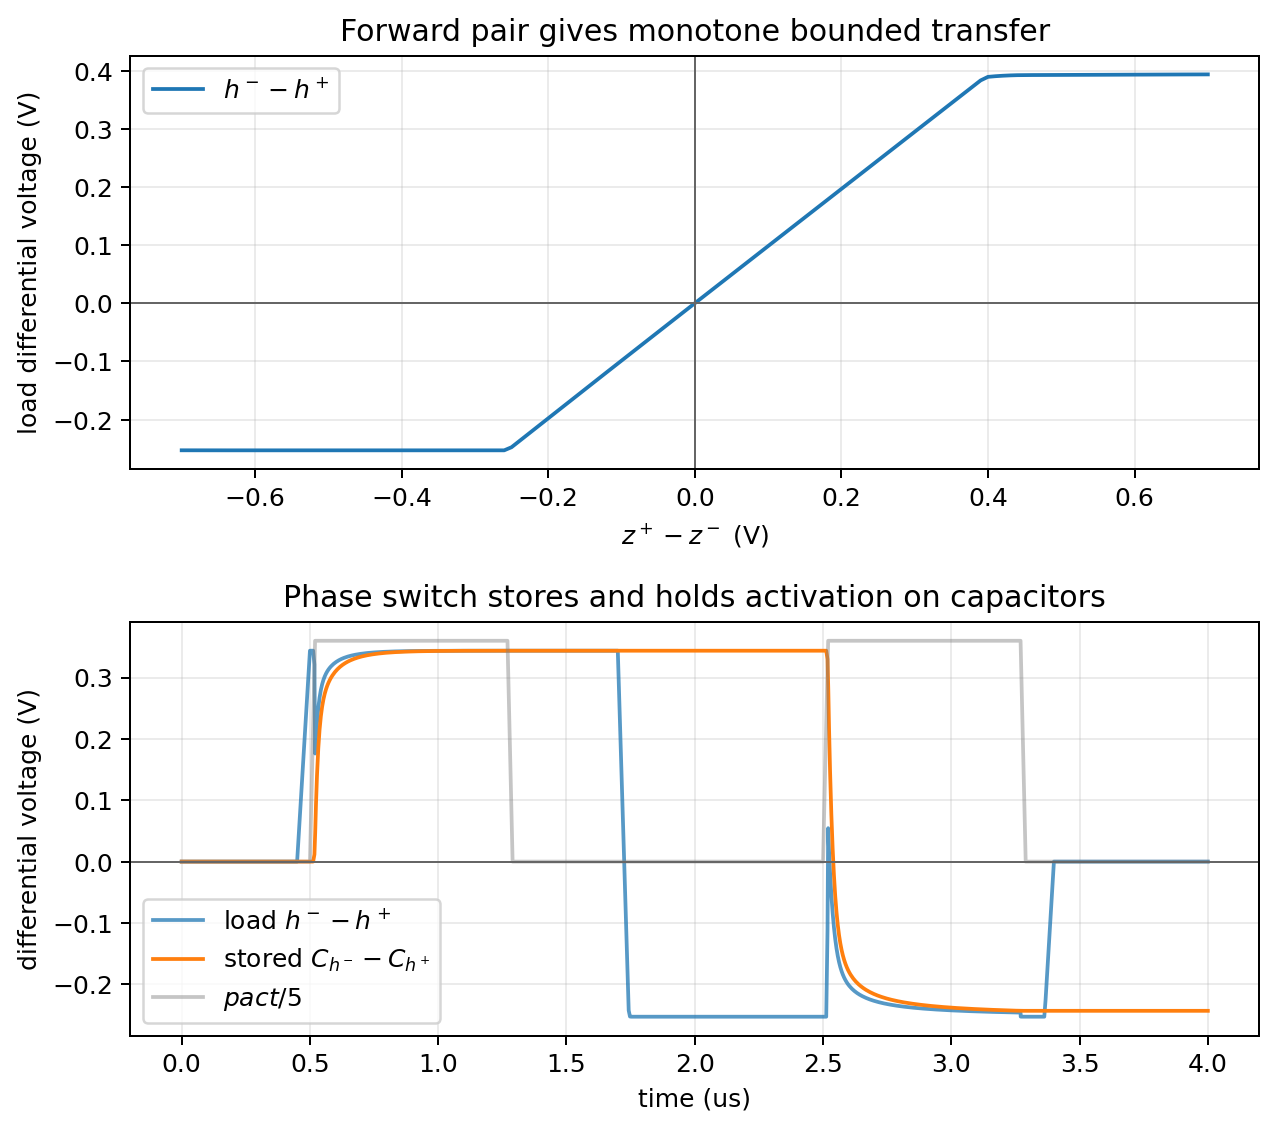
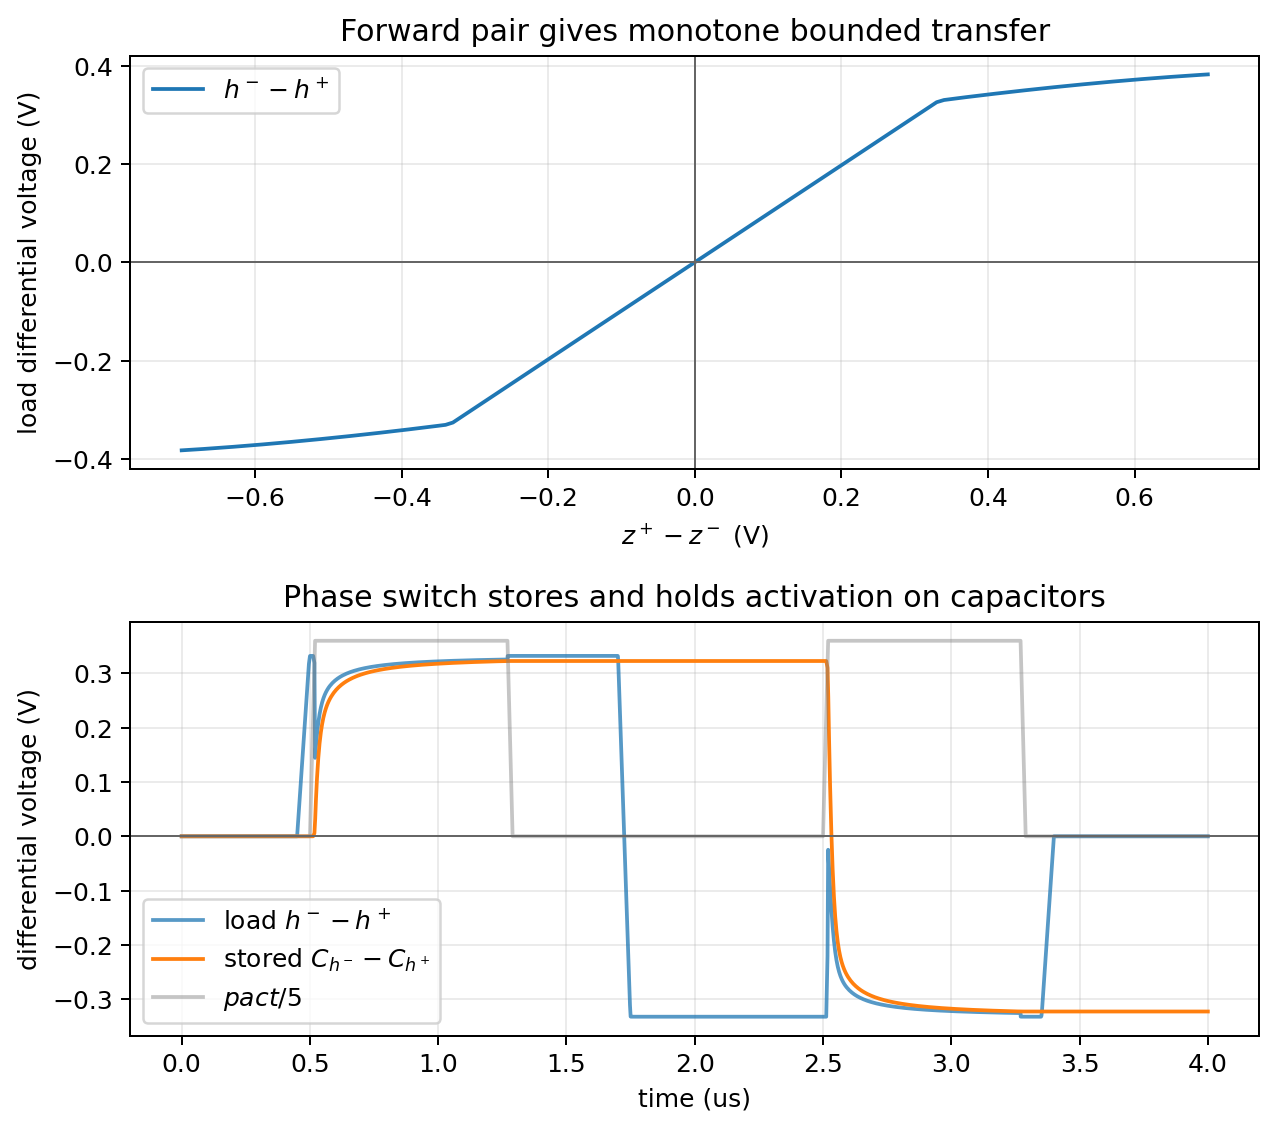
Use differential drive in MOS forward checks

diff --git a/spice/run_mos_cell_characterization.py b/spice/run_mos_cell_characterization.py
@@ -2,7 +2,7 @@
 """Run ngspice sanity checks for the MOS local-feature cell sketches.
 
 The decks generated here are intentionally small transistor-level
-characterizations of the four paper panels.  They use simple Level-1 MOS models
+characterizations of the paper panels.  They use simple Level-1 MOS models
 and independent testbench rails so the resulting plots show local sign and
 transfer behavior, not a calibrated process result.
 """
@@ -193,8 +193,10 @@ def characterize_forward_pair() -> Path:
 * MOS forward differential-pair sanity check
 {COMMON_MODELS}
 VDD vdd 0 1.8
-VZP zp 0 0.2
-VZM zm 0 0.9
+VCM cm 0 0.9
+VDIFF zp zm -0.7
+RZP zp cm 1G
+RZM zm cm 1G
 VTAIL vbias 0 0.95
 MP1 hp hp vdd vdd PMOS L={{LCH}} W={{WP}}
 MP2 hm hm vdd vdd PMOS L={{LCH}} W={{WP}}
@@ -203,7 +205,7 @@ MN2 hm zm tail 0 NMOS L={{LCH}} W={{WN}}
 MNT tail vbias 0 0 NMOS L={{LCH}} W={{WN}}
 .control
 set noaskquit
-dc VZP 0.2 1.6 0.01
+dc VDIFF -0.7 0.7 0.01
 wrdata mos_forward_pair.dat v(hp) v(hm)
 quit
 .endc
@@ -214,8 +216,10 @@ quit
 {COMMON_MODELS}
 .param CSTORE=10p WSW=24u
 VDD vdd 0 1.8
-VZP zp 0 PWL(0 0.9 0.45u 0.9 0.5u 1.25 1.7u 1.25 1.75u 0.55 3.35u 0.55 3.4u 0.9 4u 0.9)
-VZM zm 0 0.9
+VCM cm 0 0.9
+VDIFF zp zm PWL(0 0 0.45u 0 0.5u 0.35 1.7u 0.35 1.75u -0.35 3.35u -0.35 3.4u 0 4u 0)
+RZP zp cm 1G
+RZM zm cm 1G
 VTAIL vbias 0 0.95
 VPACT pact 0 PULSE(0 1.8 0.5u 20n 20n 0.75u 2.0u)
 MP1 hp hp vdd vdd PMOS L={{LCH}} W={{WP}}
@@ -239,10 +243,12 @@ quit
 """
     data = run_ngspice(transfer_deck, "mos_forward_pair")
     x, cols = load_wrdata(data, 2)
-    xdiff = x - 0.9
+    xdiff = x
     signed = cols[1] - cols[0]
     require(np.all(np.diff(signed) >= -1e-4), "forward pair transfer should be monotone")
     require(abs(signed[np.argmin(np.abs(xdiff))]) < 1e-3, "forward pair should be centered near zero")
+    peak = max(float(np.max(np.abs(signed))), 1e-30)
+    require(np.max(np.abs(signed + signed[::-1])) < 0.03 * peak, "forward pair should be approximately odd-symmetric")
     store_data = run_ngspice(store_deck, "mos_forward_store")
     t, store_cols = load_wrdata(store_data, 5)
     load_signed = store_cols[1] - store_cols[0]
@@ -285,37 +291,41 @@ def characterize_hidden_error() -> Path:
     eps = 0.01
     deck = f"""
 * Hidden-error finite-difference replica-pair sanity check.
-* The small-signal nudge is applied to the swept preactivation rail so this
-* measures the local slope of the same MOS forward transfer plotted above.
+* The small-signal nudge is applied as a differential perturbation around a
+* fixed common mode, matching the MOS forward transfer plotted above.
 {COMMON_MODELS}
 .param EPS={eps}
 VDD vdd 0 1.8
-VZP zp 0 0.2
-VZM zm 0 0.9
+VCM cm 0 0.9
+VDIFF zp zm -0.7
+RZP zp cm 1G
+RZM zm cm 1G
 VTAIL vbias 0 0.95
 
-* Testbench nudges: p-copy uses z+ + eps.
-VZP_P zpp zp {{EPS}}
-* m-copy uses z+ - eps.
-VZP_M zp zpm {{EPS}}
+* Testbench nudges around fixed common mode: p-copy uses differential input
+* d+eps, m-copy uses d-eps.
+VZPP zpp zp {{EPS/2}}
+VZMM zm zmm {{EPS/2}}
+VZPM zp zpm {{EPS/2}}
+VZMP zmp zm {{EPS/2}}
 
 * Positive nudge replica.
 MPPP hpp hpp vdd vdd PMOS L={{LCH}} W={{WP}}
 MPPM hpm hpm vdd vdd PMOS L={{LCH}} W={{WP}}
 MNPP hpp zpp tailp 0 NMOS L={{LCH}} W={{WN}}
-MNPM hpm zm tailp 0 NMOS L={{LCH}} W={{WN}}
+MNPM hpm zmm tailp 0 NMOS L={{LCH}} W={{WN}}
 MNTP tailp vbias 0 0 NMOS L={{LCH}} W={{WN}}
 
 * Negative nudge replica.
 MPMP hmp hmp vdd vdd PMOS L={{LCH}} W={{WP}}
 MPMM hmm hmm vdd vdd PMOS L={{LCH}} W={{WP}}
 MNMP hmp zpm tailm 0 NMOS L={{LCH}} W={{WN}}
-MNMM hmm zm tailm 0 NMOS L={{LCH}} W={{WN}}
+MNMM hmm zmp tailm 0 NMOS L={{LCH}} W={{WN}}
 MNTM tailm vbias 0 0 NMOS L={{LCH}} W={{WN}}
 
 .control
 set noaskquit
-dc VZP 0.2 1.6 0.01
+dc VDIFF -0.7 0.7 0.01
 wrdata mos_hidden_error.dat v(hpp) v(hpm) v(hmp) v(hmm)
 quit
 .endc
@@ -329,8 +339,10 @@ quit
 {COMMON_MODELS}
 .param CERR=10p WSW=24u
 VDD vdd 0 1.8
-VZP zp 0 1.08
-VZM zm 0 0.9
+VCM cm 0 0.9
+VDIFF zp zm 0.18
+RZP zp cm 1G
+RZM zm cm 1G
 VTAIL vbias 0 0.95
 VPBWD pbwd 0 PULSE(0 1.8 0.5u 20n 20n 0.8u 4.0u)
 VRP rp 0 PULSE(0 1.8 0.5u 20n 20n 0.8u 4.0u)
@@ -376,7 +388,7 @@ quit
 """
     data = run_ngspice(deck, "mos_hidden_error")
     x, cols = load_wrdata(data, 4)
-    xdiff = x - 0.9
+    xdiff = x
     signed_plus_nudge = cols[1] - cols[0]
     signed_minus_nudge = cols[3] - cols[2]
     gain = (signed_plus_nudge - signed_minus_nudge) / (2.0 * eps)
@@ -400,7 +412,7 @@ quit
     require(at(2.2e-6, neg_stored) < -0.12, "r- hidden-error storage should hold after phase")
 
     fig, axes = plt.subplots(2, 1, figsize=(7.2, 6.2))
-    axes[0].plot(x - 0.9, gain, label="finite-difference gain")
+    axes[0].plot(xdiff, gain, label="finite-difference gain")
     axes[0].axhline(0, color="0.4", linewidth=0.8)
     axes[0].axvline(0, color="0.4", linewidth=0.8)
     axes[0].set_xlabel("$z^+ - z^-$ (V)")

diff --git a/docs/spicenn_progress_note.tex b/docs/spicenn_progress_note.tex
@@ -609,11 +609,12 @@ must satisfy before it can replace the current behavioral prototype.
   \centering
   \includegraphics[width=0.88\linewidth]{figures/mos_forward_pair_ngspice.png}
   \caption{Ngspice characterization of the MOS forward differential pair and
-  activation store.  The top panel is the DC transfer.  The diode-connected
-  load is voltage-inverting, so the useful signed load voltage is plotted as
-  \(h^- - h^+\).  The bottom panel is a transient storage check: when \(pact\)
-  is high the switch tracks the current activation onto \(C_h\), and when
-  \(pact\) closes the stored differential activation is held.}
+  activation store.  The top panel is the DC transfer under fixed common-mode
+  differential drive.  The diode-connected load is voltage-inverting, so the
+  useful signed load voltage is plotted as \(h^- - h^+\).  The bottom panel is
+  a transient storage check using the same differential drive convention: when
+  \(pact\) is high the switch tracks the current activation onto \(C_h\), and
+  when \(pact\) closes the stored differential activation is held.}
   \label{fig:mos-forward-ngspice}
 \end{figure}
 
@@ -622,8 +623,8 @@ must satisfy before it can replace the current behavioral prototype.
   \includegraphics[width=0.88\linewidth]{figures/mos_hidden_error_ngspice.png}
   \caption{Ngspice characterization of the hidden-error path.  The top panel
   uses two matched diode-loaded MOS forward replicas nudged by \(+10\) mV and
-  \(-10\) mV on the swept preactivation rail; their finite difference gives the
-  local small-signal derivative window.  The bottom panel is a separate
+  \(-10\) mV in differential input at fixed common mode; their finite difference
+  gives the local small-signal derivative window.  The bottom panel is a separate
   transient sign-selection check: MOS pass switches controlled by \(r^+\) or
   \(r^-\) store opposite differential hidden-error polarities on capacitors and
   hold them after the backward phase closes.}

diff --git a/engineering_log.md b/engineering_log.md
@@ -2,6 +2,7 @@
 
 ## 2026-05-24
 
+- Reworked the forward and hidden-error MOS characterizations to use true differential drive at fixed common mode. The earlier decks swept only \(z^+\) while holding \(z^-\) fixed, so the plots mixed differential behavior with common-mode motion. The new forward transfer deck sweeps a floating \(z^+-z^-\) source with common-mode ties and asserts approximate odd symmetry; the hidden-error finite-difference deck nudges the differential input by \(\pm\epsilon\) around that same common mode.
 - Extended the writer readback characterization to close the missing negative-weight half. The ngspice readback deck now has separate same-sign and opposite-sign writer copies, uses the stored \(W^+\) and \(W^-\) capacitor voltages as the tail gates of positive and gate-swapped negative synapse slices, and asserts that \(W^+\) increases the positive contribution while \(W^-\) makes the negative contribution more negative.
 - Closed a writer/read operating-range mismatch. The writer characterization had been making clean incremental steps near 0.2 V, but the signed synapse tail gate needs an above-threshold stored weight voltage. The writer caps now start around the synapse-readable common-mode, and a new ngspice readback deck uses the written \(W^+\) capacitor directly as a synapse tail gate and asserts that the contribution current increases after the write.
 - Added a MOS reset/precharge characterization for reusable state capacitors. The new deck starts a \(z^+/z^-\) capacitor pair from a deliberately mismatched state, uses complementary MOS transmission gates to reset both rails toward common mode, writes a new signed preactivation through the synapse slice, then resets again without Python-side capacitor forcing. This makes the basic-component plots cover per-sample reuse rather than only one-shot initial conditions.
